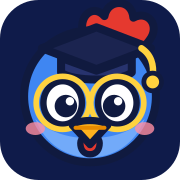
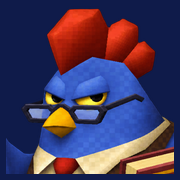
Use the owner's Cojiro artwork as the mascot

diff --git a/apps/web/src/components/SearchApp.tsx b/apps/web/src/components/SearchApp.tsx
@@ -199,7 +199,7 @@ export default function SearchApp({ entries, languages, initialQuery, initialLan
         </ul>
       ) : (
         <div className="empty">
-          <img className="mascot" src="/cojiro.svg" alt="" width={120} height={126} />
+          <img className="mascot" src="/cojiro.webp" alt="" width={148} height={140} />
           <p>
             {entries.length === 0
               ? 'No questions yet.'

diff --git a/apps/web/src/styles/global.css b/apps/web/src/styles/global.css
@@ -2979,3 +2979,12 @@ dialog.modal {
   border: 2px solid var(--line-strong);
   border-radius: 8px;
 }
+
+.mascot {
+  width: 148px;
+  filter: drop-shadow(0 4px 0 rgb(0 0 0 / 0.45));
+}
+.wordmark .mark {
+  border: 2px solid #2b3a8c;
+  background: #0f1b4a;
+}
